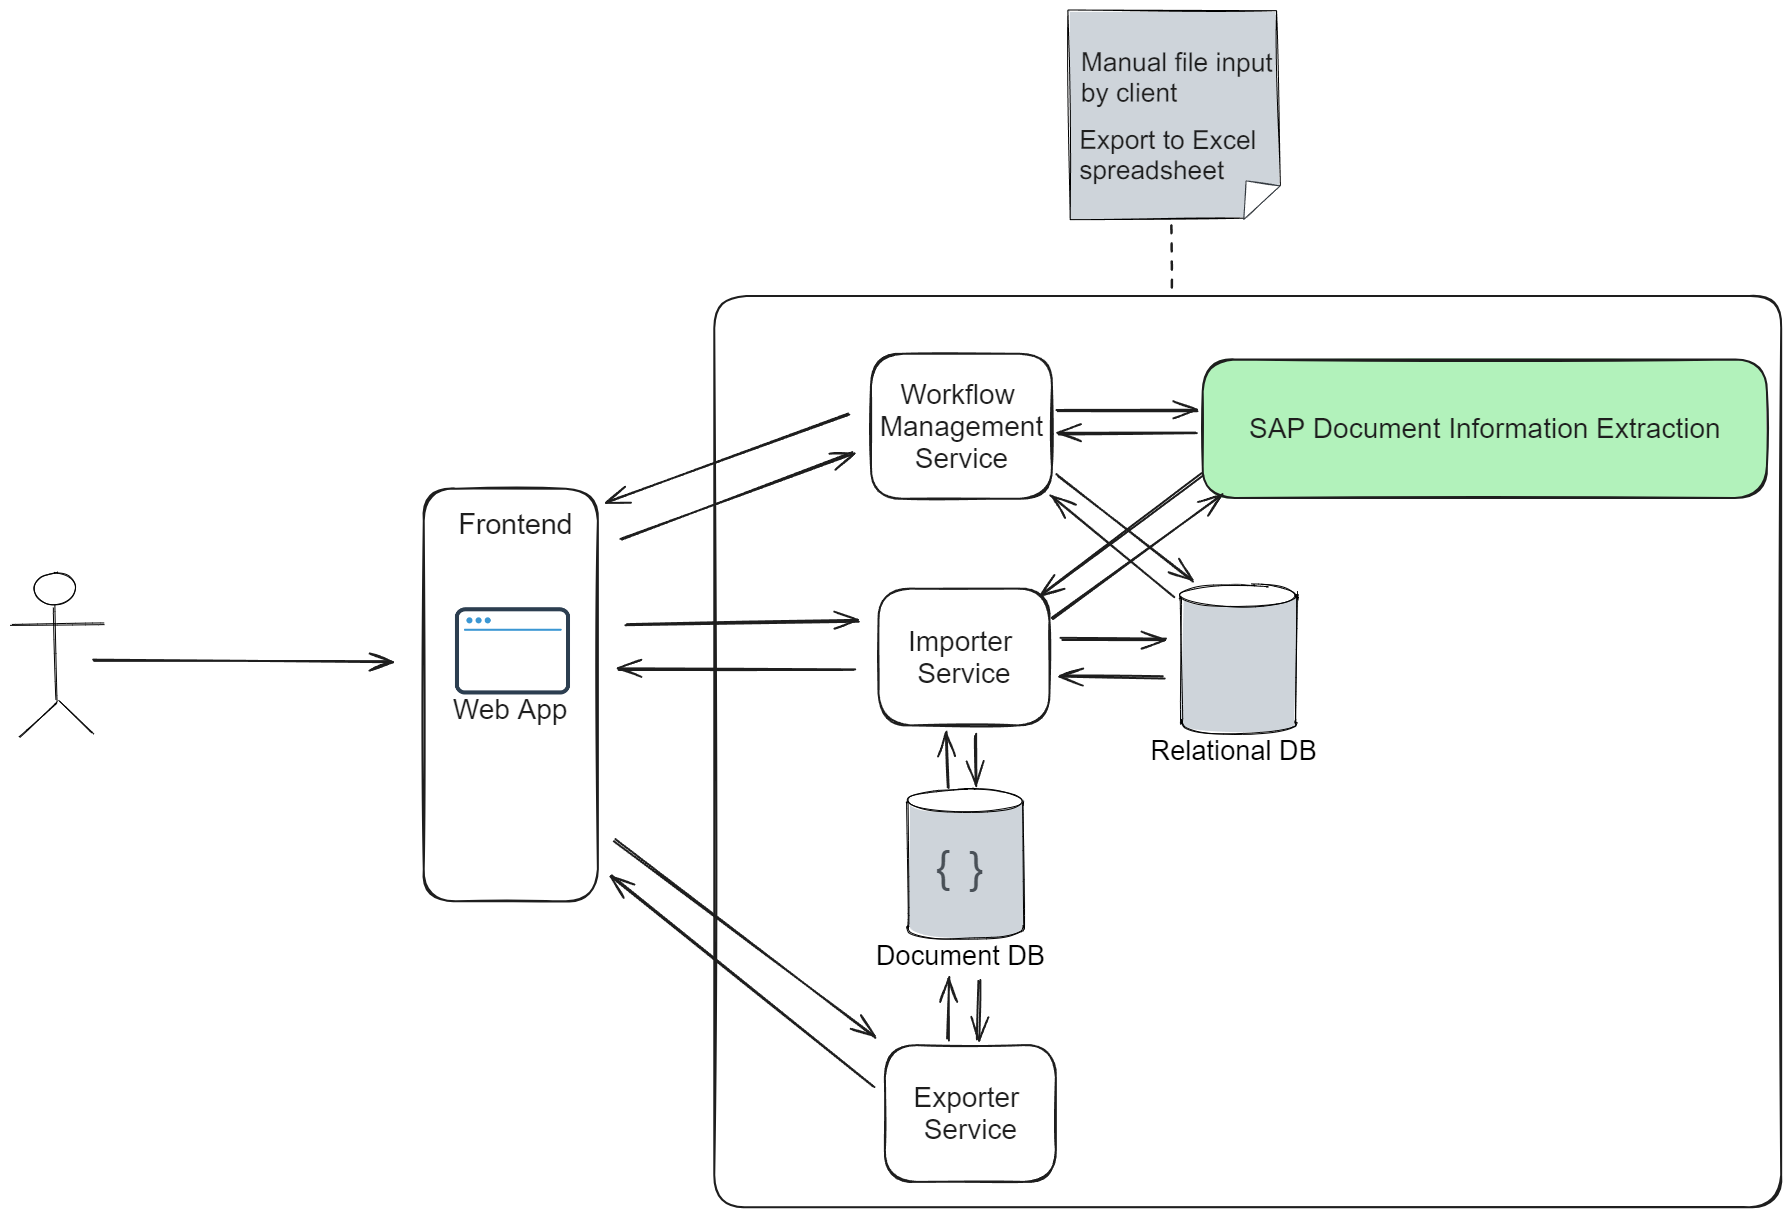
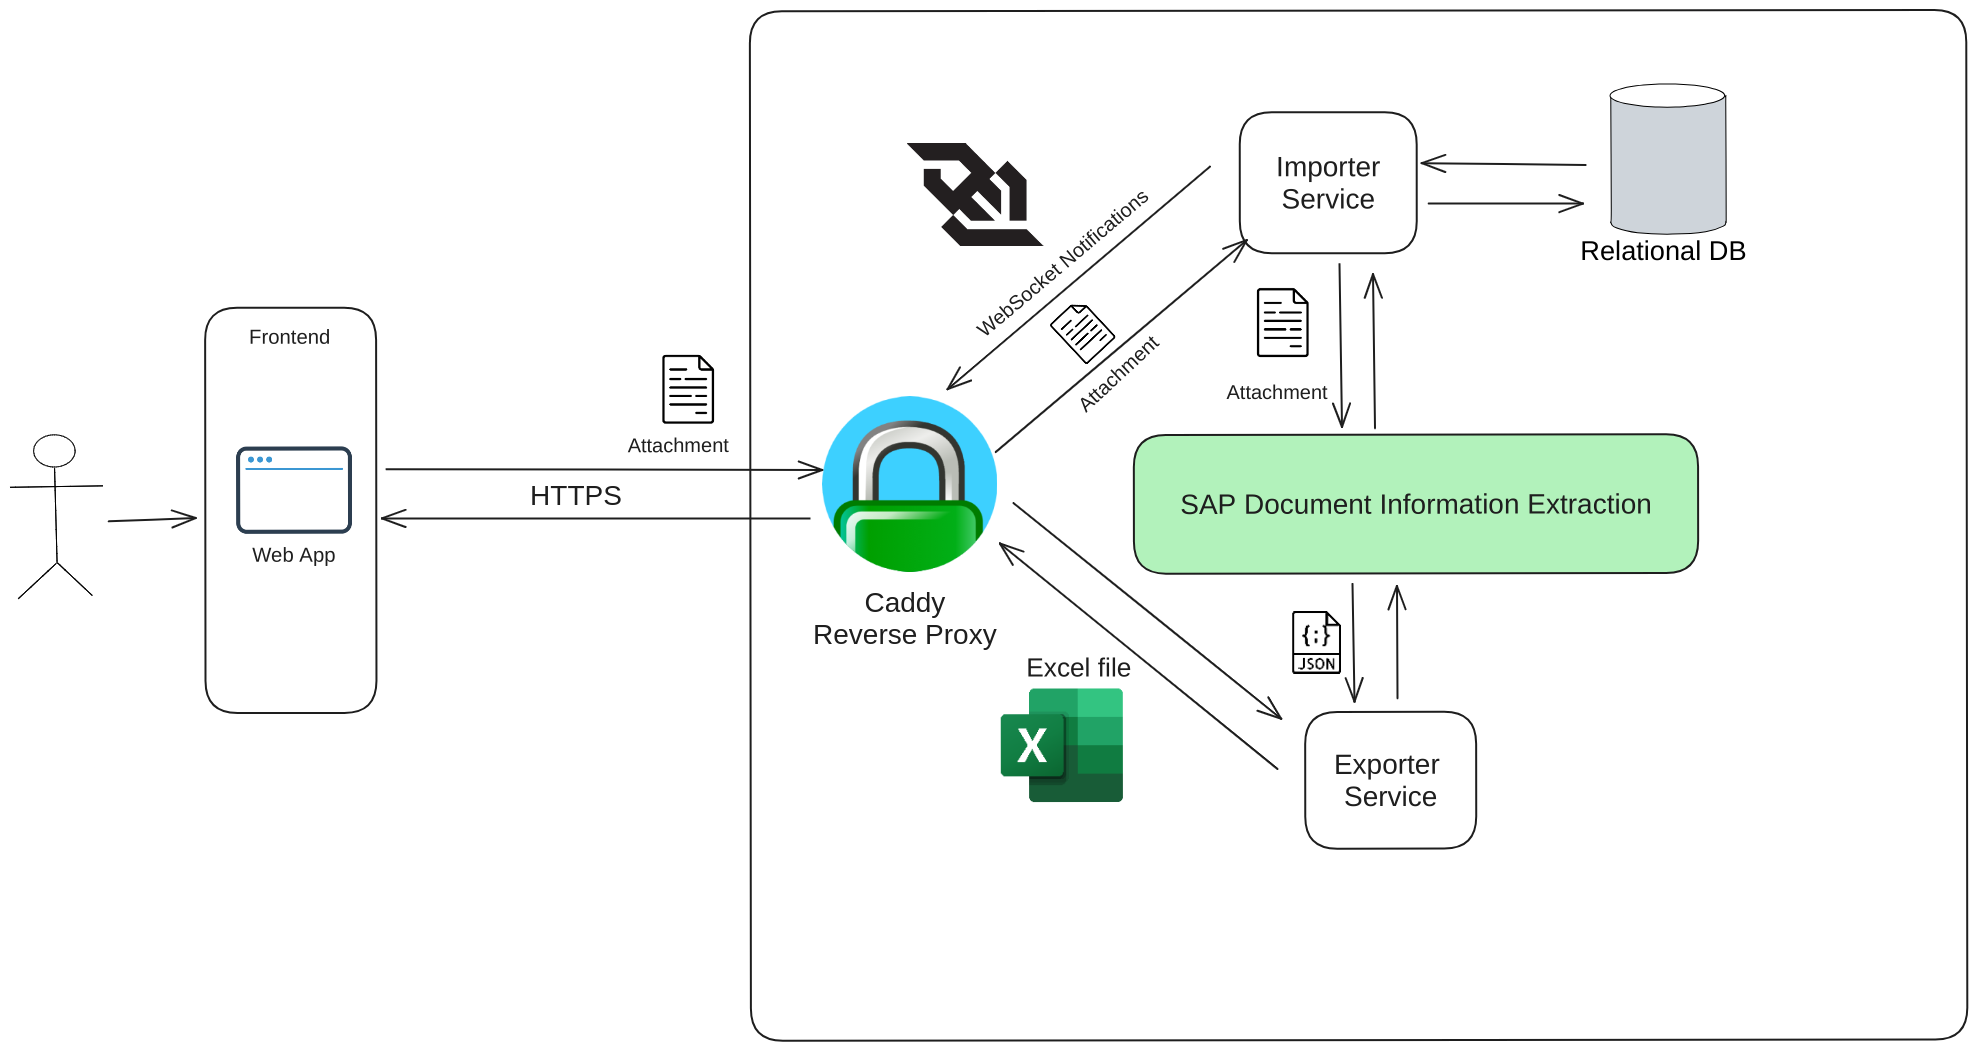
docs: architecture diagrams and explanation

diff --git a/docs/architecture.md b/docs/architecture.md
@@ -1,25 +1,13 @@
-## Use Case: Manual File Input and Export to Excel Spreadsheet
+# Architecture Overview
 
-1. **Setup Schemas and Templates:**
-   - The user interacts with the workflow management service to configure schemas and templates for document processing.
+Our product is built using the microservices architectural pattern, comprising the following services:
 
-2. **Document Processing:**
-   - When the user needs a document processed, it is submitted to the importer service.
+- **Authentication Service:** Handles user authentication.
+- **Workflow Management Service:** Manages the configuration of schemas, templates, workflows, and ground truths for information extracted from documents.
+- **Import Service:** Receives files from users in various ways (e.g., email, manual input) and forwards them to the DOX API for processing.
+- **Exporter Service:** Formats the extracted information according to the user's needs, such as generating Excel files or JSON data structures.
 
-3. **Processing and Storage:**
-   - The importer service dispatches the document to the Document Information Extraction API for processing.
-   - Continuously monitoring, the importer service polls the API until processing is finalized.
-   - Upon completion, the processed document is securely stored in the Document Database.
-
-4. **Export to Excel Spreadsheet:**
-   - To retrieve the processed document's information, the user initiates an export request.
-   - The frontend triggers a request to the exporter service for exporting the data.
-   - The exporter service retrieves the pertinent information from the Document Database.
-   - Organizing the data, the exporter service formats it into an Excel spreadsheet (xlsx).
-
-
-![manual_input_export_xlsx](resources/manual_input_manual_output.png)
-
+To simplify the interaction with multiple services and efficiently route client requests, we use Caddy as a reverse proxy. This setup abstracts the complexity of our microservices architecture and ensures seamless request forwarding to the appropriate service.
 
 ## Authentication and Authorization
 1. **User Authentication:**
@@ -36,3 +24,70 @@
 4. **Authorization:**
    - With the user information extracted from the JWT, the receiving service can enforce authorization policies as per the user's permissions and roles.
 ![authentication&authorization](resources/authentication&authorization.png)
+
+## Use Case: Workflow Configuration
+
+### Schema Configuration
+A schema defines the fields a user wants to extract from the files sent to a workflow. To configure a schema, an initial request is made to create it in the DOX API, and the resulting schema DOX ID is stored in a relational database. Subsequent requests can edit the schema by modifying header fields and line items. These requests use the schema DOX ID from the database to update the schema in the DOX API.
+
+Predefined schemas are available to all users upon account creation.
+
+### Template Configuration
+A template specifies where each field of a schema is located within a document template (i.e., the common structure for files sent to a given workflow). To configure a template, an initial request is made to create it in the DOX API, associating it with a specific schema (whose DOX ID is retrieved from the relational database). The resulting template DOX ID is then stored in the database.
+
+### Workflow Configuration
+A workflow is associated with a template. When a user sends a file for processing, the template DOX ID is retrieved from the database, along with the schema DOX ID associated with the template. Both IDs are sent with the file to the DOX API for processing.
+
+### Document Ground Truth
+Document extraction can sometimes be incorrect. Users can add or remove header fields or line items and edit the extracted values. They can also use our UI to adjust the bounding box coordinates for each field. A request with the correct extraction is sent to our API and forwarded to the DOX API. We store the file DOX ID in the database, which is used to send the correct values to the DOX API. This process helps train the template, improving the accuracy of future extractions.
+
+![workflow_configuration](resources/workflow_configuration.png)
+
+
+## Use Case: Manual File Input and Export to Excel Spreadsheet
+
+1. **Document Submission:**
+   - Users submit a document to the importer service for processing.
+
+2. **Processing and Storage:**
+   - The importer service sends the document to the Document Information Extraction (DOX) API for processing.
+   - The importer service continuously polls the DOX API to monitor the status of the document processing.
+   - Once processing is complete, the importer service stores the document's DOX ID in a relational database.
+   - The confidence level for each extracted field is evaluated. If any field's confidence falls below the configured minimum threshold, the processing is marked as a failure.
+   - Upon successful processing, the importer service sends a notification to the frontend via a websocket, informing the user that the document has been successfully processed.
+
+3. **Export to Excel Spreadsheet:**
+   - To export the processed document's information, users initiate an export request via the frontend.
+   - The frontend sends a request to the exporter service.
+   - The exporter service retrieves the DOX ID from the relational database.
+   - Using the DOX ID, the exporter service requests the processed information from the DOX API.
+   - The exporter service formats the DOX API response into an Excel spreadsheet (xlsx) and sends the spreadsheet back to the user.
+
+![manual_input_export_xlsx](resources/manual_input_manual_output.png)
+
+## Use Case: File Input via Client's Backend and Export via Client's Backend
+
+This is very similar to the previous scenario, except all the requests are explicitly made by the client's backend instead of being implicitly made by the browser.
+
+![automatic_input_automatic_output](resources/automatic_input_automatic_output.png)
+
+## Use Case: Email File Input and Export to Excel Spreadsheet
+
+**Pre-requisites**
+- The user must have already configured a workflow and the associated email.
+
+1. **Document Submission:**
+   - The user sends an email to doclarifai's email address from the email associated with the workflow. To enable the system to identify the target workflow, the destination email must be in the format `doclarifai+id@gmail.com`.
+   - The importer service polls the Gmail API and processes unread emails.
+   - The importer service parses the email sender's information and associates the attached file with the corresponding workflow, verifying that the sender has the necessary permissions to send files for this workflow.
+   - The importer service then reads the email attachments and prepares them for processing.
+
+
+
+2. **Processing and Storage:**
+   - Same as [Manual File Input and Export to Excel Spreadsheet](#use-case-manual-file-input-and-export-to-excel-spreadsheet).
+
+3. **Export to Excel Spreadsheet:**
+   - Same as [Manual File Input and Export to Excel Spreadsheet](#use-case-manual-file-input-and-export-to-excel-spreadsheet).
+
+![email_input_manual_output](resources/email_input_manual_output.png)
